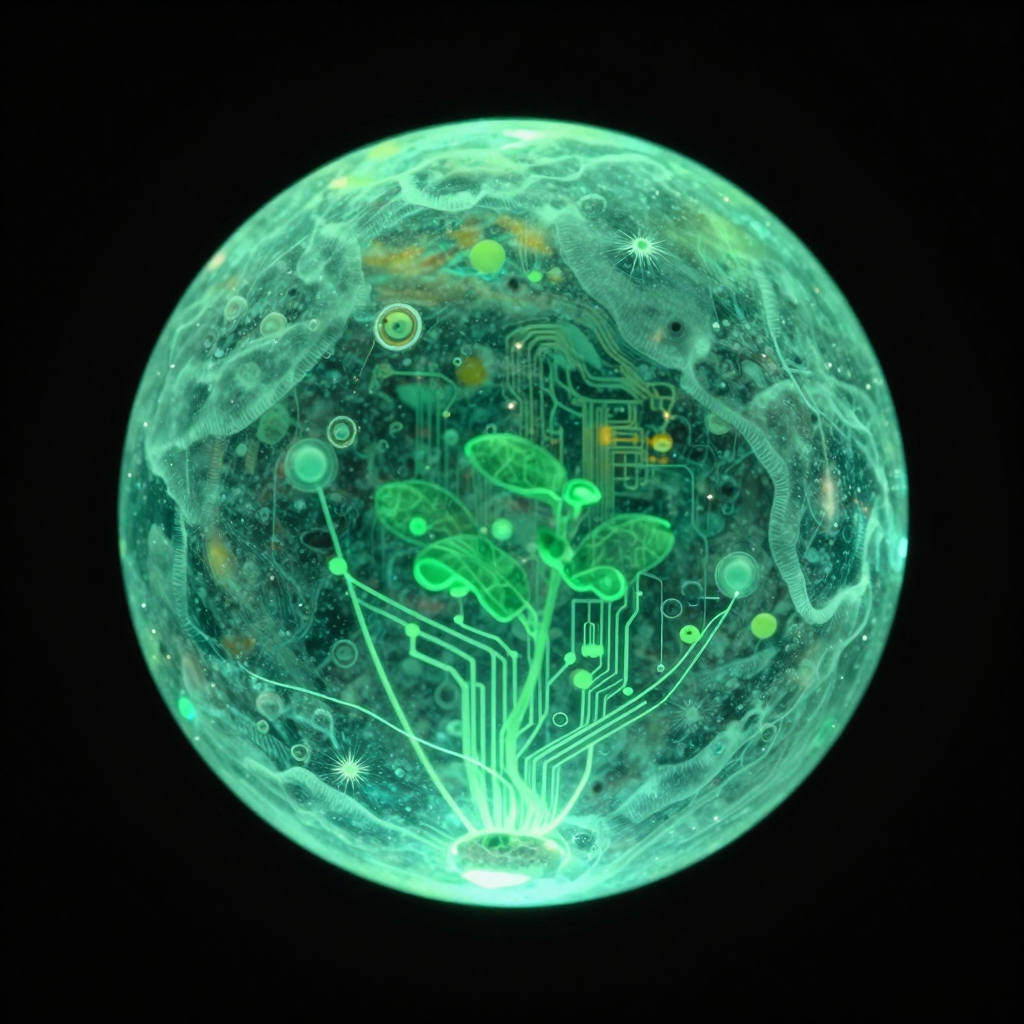
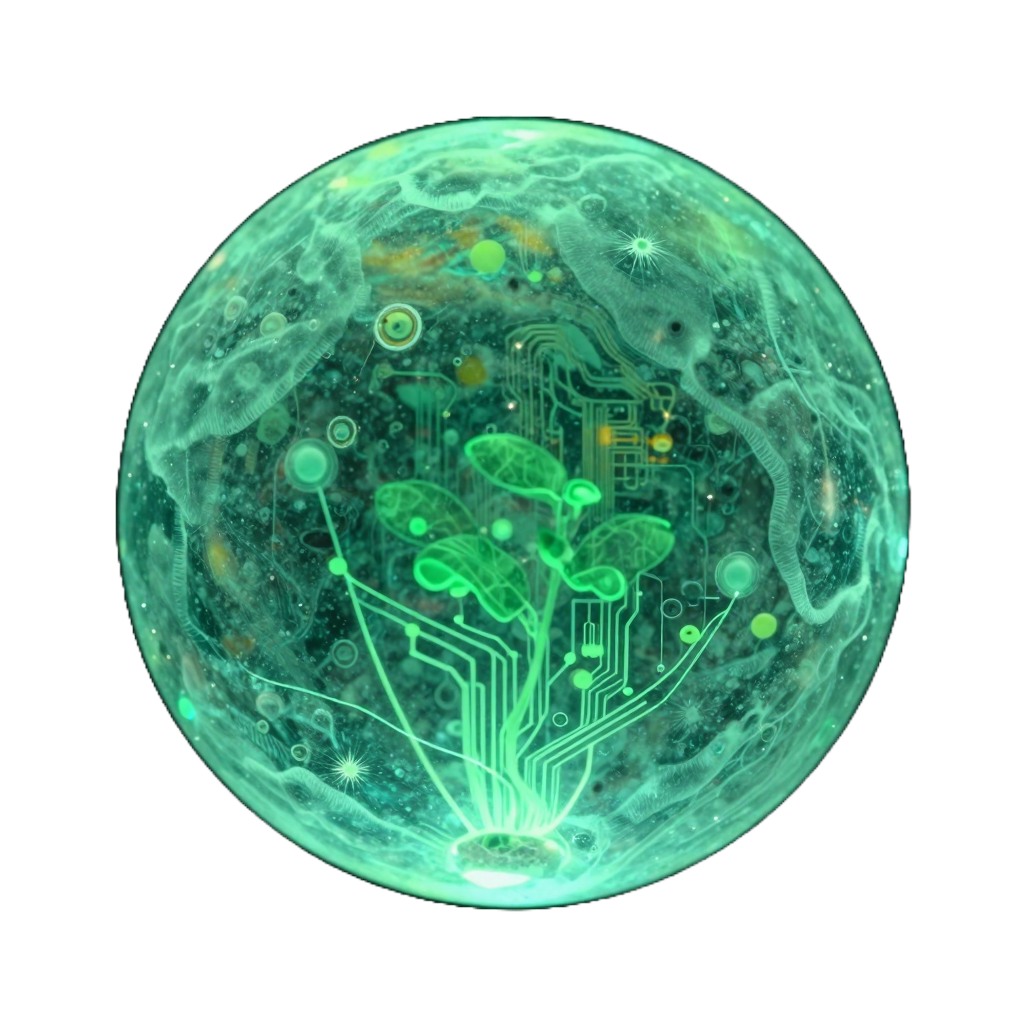
Quick save: Thu 01/01/2026 22:45:11.02

diff --git a/src/components/avatar/RadiantHalo.jsx b/src/components/avatar/RadiantHalo.jsx
@@ -41,6 +41,8 @@ export function RadiantHalo({ size = 440, stage = 'flame' }) {
                     animation: 'radiant-shimmer 12s ease-in-out infinite',
                     opacity: 0.85,
                     filter: `hue-rotate(${hueShift}deg) contrast(1.1) brightness(1.05)`,
+                    WebkitMaskImage: 'radial-gradient(circle, transparent 0%, transparent 35%, black 45%, black 100%)',
+                    maskImage: 'radial-gradient(circle, transparent 0%, transparent 35%, black 45%, black 100%)',
                 }}
             />
 
